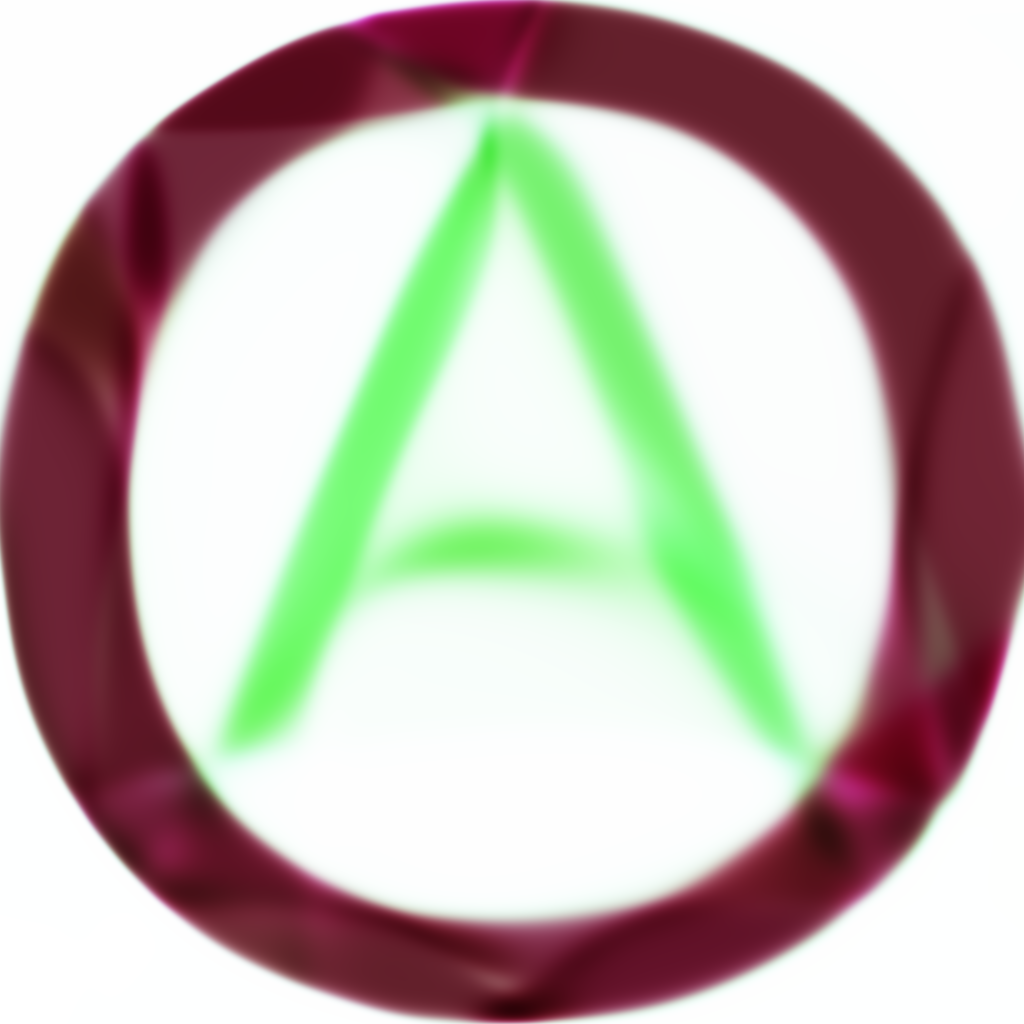
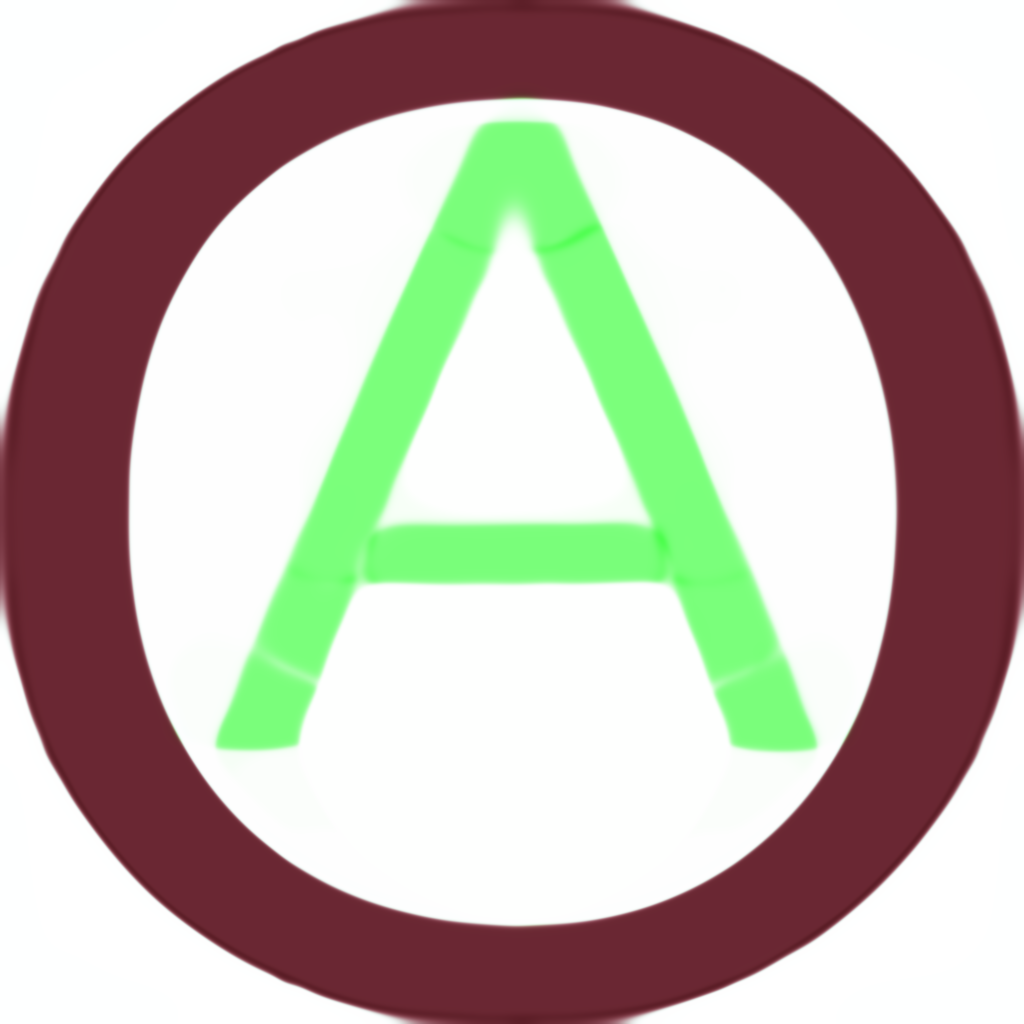
added Fourier encoding

diff --git a/preprocessing.py b/preprocessing.py
@@ -4,7 +4,6 @@ import scipy as scp
 import numpy as np
 import torch
 from PIL import Image
-from sympy import false
 from torch.profiler import profile, record_function, ProfilerActivity
 
 def load_image(path: os.PathLike): return np.array(Image.open(path).convert("RGB"), dtype=np.float32) / 255.0
@@ -32,7 +31,7 @@ def image_init(path: os.PathLike):
     indices = np.stack([y_coords.flatten(), x_coords.flatten()], axis=1)  # (N, 2)
     return samples, indices
 
-def upsample(img, scale):
+def upsample(img: np.ndarray[np.ndarray[np.float32]], scale):
     samples = scp.ndimage.zoom(img, (scale, scale, 1), order=1)  # order=1 = bilinear
     h, w = samples.shape[:2]
     y_coords, x_coords = np.meshgrid(np.linspace(0, 1, h), np.linspace(0, 1, w))
@@ -61,3 +60,30 @@ def reconstruct_image(model, device, height, width, z = 1, bench = False, name =
         predicted_colors = predicted_colors.astype(dtype=np.uint8)
         Image.fromarray(predicted_colors).save(f"reconstructed/{name}{z}x.png")
         print(f"✓ Reconstructed {name} with {z}x zoom saved: {name}{z}x.png")
+
+def reconstruct_fourier(model, device, height, width, z, bench = False, name = "reconstructed"):
+    model.eval()
+    h, w = z * height, z * width
+    y_coords, x_coords = np.meshgrid(np.linspace(0, 1, h), np.linspace(0, 1, w))
+    test_indices = np.stack([y_coords.flatten(), x_coords.flatten()], axis=1)
+    test_indices = fourier_encoding(test_indices)
+    vertex_uvs = torch.from_numpy(test_indices).float().to(device)
+    predicted_colors = model(vertex_uvs)
+
+    predicted_colors = predicted_colors.cpu().detach().numpy().reshape(h, w, 3) * 255
+    predicted_colors = predicted_colors.astype(dtype=np.uint8)
+    Image.fromarray(predicted_colors).save(f"reconstructed/{name}{z}x.png")
+    print(f"✓ Reconstructed {name} with {z}x zoom saved: {name}{z}x.png")
+
+def fourier_encoding(X: np.ndarray[np.ndarray[np.float32]], freqs = 2):
+    x_coords = X[:,0]
+    y_coords = X[:,1]
+    result = np.zeros((4*freqs, X.shape[0]))
+    for i in range(freqs):
+        freq = 1 << i  # Frequencies: 1, 2, 4, 8
+        index = i*4
+        result[index] = np.sin(2 * np.pi * freq * y_coords)
+        result[index + 1] = np.cos(2 * np.pi * freq * y_coords)
+        result[index + 2] = np.sin(2 * np.pi * freq * x_coords)
+        result[index + 3] = np.cos(2 * np.pi * freq * x_coords)
+    return result.T

diff --git a/model_testing.py b/model_testing.py
@@ -3,6 +3,7 @@ import os
 import time
 
 import torch
+from PIL import Image
 from torch import nn, optim
 from torch.utils.data import TensorDataset, DataLoader
 import preprocessing as prep
@@ -18,18 +19,19 @@ testable = {"fmn" : models.NeuralDetailMapper, "mlp" : models.ColorMLP}
 
 if __name__ == "__main__":
     args = parser.parse_args()
-    if not args.img: args.img = "data/aa.png"
+    if not args.img: args.img = "data/oa.png"
     if not args.nn: args.nn = "mlp"
     img_path: os.PathLike = pth.Path(args.img)
     og, test_indices = prep.image_init(img_path)
     og = prep.load_image(img_path)
     all_X, all_y = [], []
-    for scale in [1]:
+    for scale in [0.25]:
         X, y = prep.upsample(og, scale)
         all_X.append(X)
         all_y.append(y)
     X = np.vstack(all_X)
     y = np.vstack(all_y)
+    X = prep.fourier_encoding(X)
 
     device = torch.device('cuda' if torch.cuda.is_available() else 'cpu')
     # device = torch.device('cpu')
@@ -75,5 +77,7 @@ if __name__ == "__main__":
     # print(prof.key_averages().table(sort_by="cuda_time_total", row_limit=10))
     h, w = og.shape[:2]
     file_name = img_path.stem
-    prep.reconstruct_image(model, device, h, w, name=file_name)
-    prep.reconstruct_image(model, device, h, w, 2, bench=False, name=file_name)
+    prep.reconstruct_fourier(model, device, h, w, 1, name=file_name)
+    prep.reconstruct_fourier(model, device, h, w, 2, name=file_name)
+    # prep.reconstruct_image(model, device, h, w, name=file_name)
+    # prep.reconstruct_image(model, device, h, w, 2, bench=False, name=file_name)

diff --git a/models.py b/models.py
@@ -6,8 +6,8 @@ class ColorMLP(nn.Module):
     def __init__(self):
         super().__init__()
         self.net = nn.Sequential(
-            nn.Linear(2, 256), nn.Sigmoid(),
-            nn.Linear(256, 64), nn.Sigmoid(),
+            nn.Linear(8, 128), nn.Sigmoid(),
+            nn.Linear(128, 64), nn.Sigmoid(),
             nn.Linear(64, 3), nn.Sigmoid())
 
     def forward(self, x): return self.net(x)
